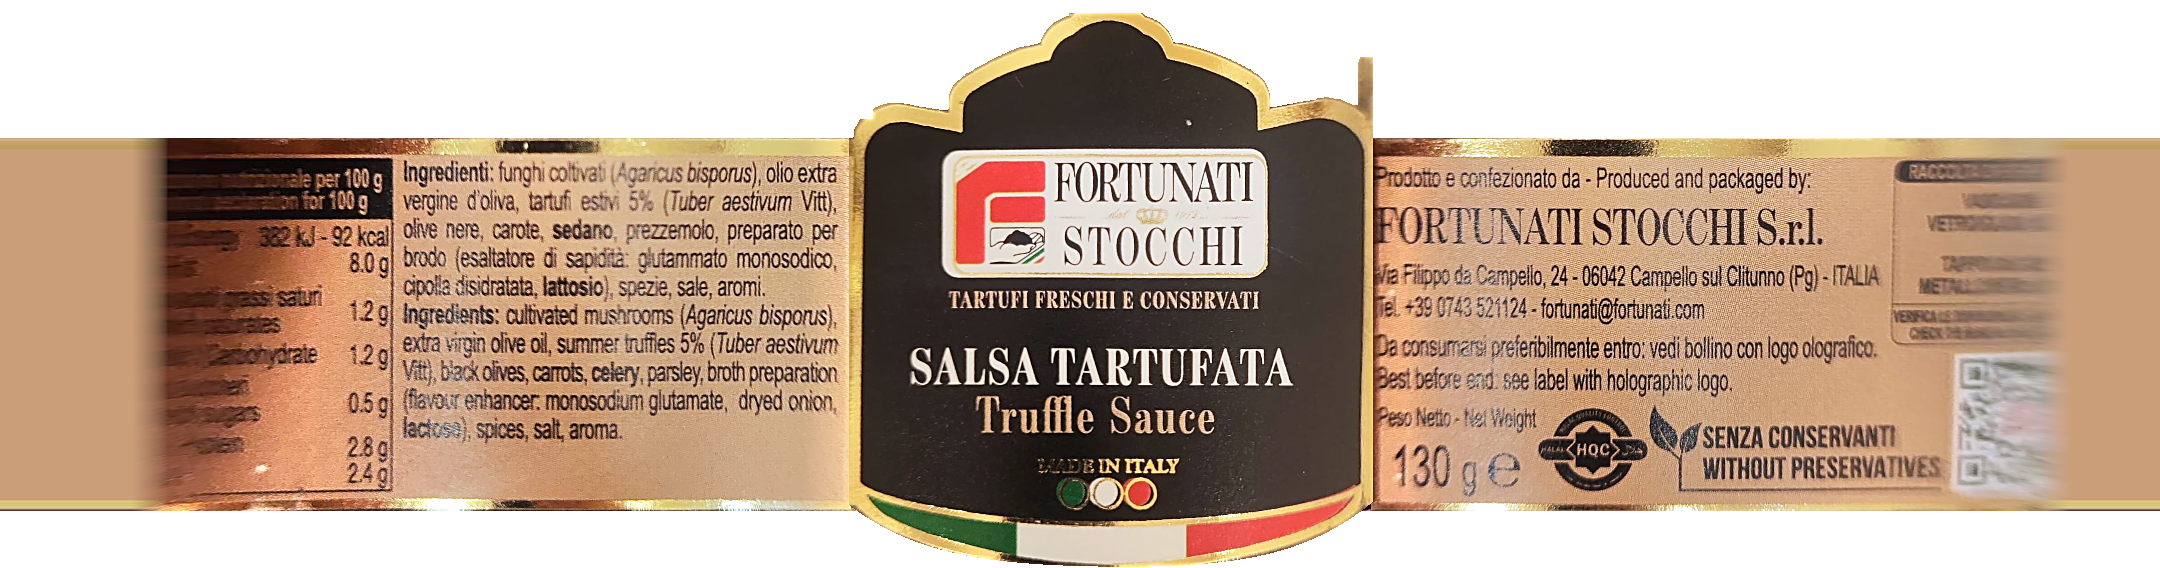
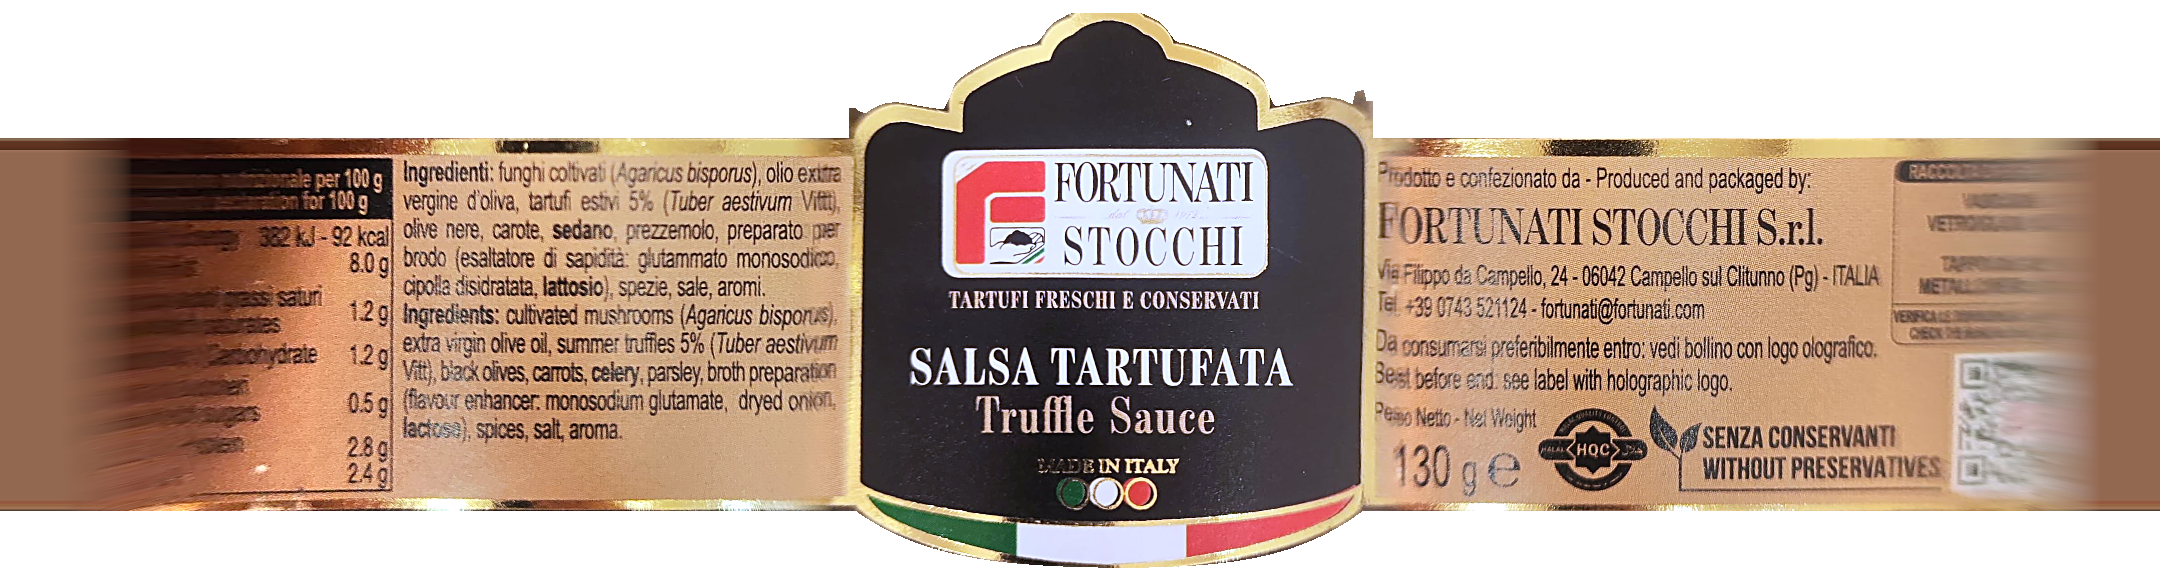
Etichetta rifatta: niente scalini nel bordo dorato né strisce nere ai lati
Il montaggio delle tre foto era sbagliato: dentro l'angolo dell'etichetta nera nessuna foto
aveva peso, e il colore lì veniva nero. Si vedevano due strisce scure ai lati dell'etichetta e
un salto di colore dove finiva la sagoma ritagliata. Adesso ogni foto prende la fetta che
guarda in faccia — davanti la 1 con l'etichetta nera intera e le sue strisce dorate, a sinistra
la 3, a destra la 2 — e le sfumature fra una foto e l'altra cadono fuori dall'etichetta nera.

La sagoma dell'arco serve ormai solo per il trasparente, e non esce più a scalini: i punti che
scappano (i lampi d'oro sul vetro dietro) si buttano via e sui 2° estremi, dove il bordo si vede
di taglio, si tiene quello della spalla vicina. Prima ne usciva uno spuntone sul lato destro.

La toppa dietro, dove nessuna foto arriva, è più stretta e messa alla stessa luce dei bordi che
le stanno accanto: non è più una macchia chiara. Resta senza scritte: per riempirla davvero
serve una foto del retro del barattolo.

La superficie della salsa non sembra più legno: la grana adesso ha i pixel quadrati anche lì.

diff --git a/barattolo/barattolo-3d.js b/barattolo/barattolo-3d.js
@@ -106,10 +106,13 @@ export function monta(el, m) {
     envMapIntensity: 0.15
   });
   barattolo.add(new THREE.Mesh(salsa, pelle));
-  /* la superficie della salsa, appena incavata: si vede dalla spalla quando si guarda dall'alto */
+  /* la superficie della salsa, appena incavata: si vede dalla spalla quando si guarda dall'alto. Sta
+     all'ombra del tappo, quindi più scura di quella di lato. */
   const [livello, rSalsa] = m.dentro[0];
   const pelleCima = carica("salsa.jpg", true);
-  pelleCima.repeat.set(1.6, 1.6);
+  pelleCima.repeat.set(2 * rSalsa / m.salsa.largo, 2 * rSalsa / m.salsa.alto); /* grana quadrata, se no sembra legno */
+  pelleCima.center.set(0.5, 0.5);
+  pelleCima.rotation = 0.7;
   const faccia = new THREE.CircleGeometry(rSalsa, 96);
   const fp = faccia.attributes.position;
   for (let i = 0; i < fp.count; i++) {
@@ -119,7 +122,7 @@ export function monta(el, m) {
   faccia.computeVertexNormals();
   const cima = new THREE.Mesh(
     faccia,
-    new THREE.MeshStandardMaterial({ map: pelleCima, bumpMap: pelleCima, bumpScale: 0.015, roughness: 0.4, envMap, envMapIntensity: 0.25 })
+    new THREE.MeshStandardMaterial({ map: pelleCima, bumpMap: pelleCima, bumpScale: 0.01, color: 0x8c8c8c, roughness: 0.5, envMap, envMapIntensity: 0.2 })
   );
   cima.rotation.x = -Math.PI / 2;
   cima.position.y = livello;

diff --git a/barattolo/index.html b/barattolo/index.html
@@ -31,7 +31,12 @@
 <p class="nome">Salsa tartufata 130 g</p>
 <script type="module">
   import { monta } from "./barattolo-3d.js";
-  monta(document.querySelector("[data-3d]"), await (await fetch("modello.json")).json());
+  const c = monta(document.querySelector("[data-3d]"), await (await fetch("modello.json")).json());
+  /* per le prove: __gira(gradi) mette il barattolo a un angolo preciso, senza trascinare */
+  window.__gira = (gradi, alto = 1.33) => {
+    c.object.position.setFromSphericalCoords(c.object.position.length(), alto, gradi * Math.PI / 180);
+    c.update();
+  };
 </script>
 </body>
 </html>

diff --git a/barattolo/barattolo.py b/barattolo/barattolo.py
@@ -62,35 +62,48 @@ def srotola(n, teta, h):
 
 
 # --- etichette: un foglio unico tutto intorno, da sopra l'etichetta nera a sotto ----------------------------------------
+# Ogni foto prende la fetta che guarda in faccia: davanti la 1 (etichetta nera intera, col suo bordo d'oro e le due
+# strisce dorate ai lati), a sinistra la 3, a destra la 2. Le sfumature fra una foto e l'altra cadono fuori
+# dall'etichetta nera, così nessuna giunzione la taglia. Dietro restano una ventina di gradi che non ha visto
+# nessuna foto: lì l'etichetta è oro liscio, riga per riga (i fili d'oro in cima e in fondo restano).
 HE = righe(0.40, -1.25)
 oro = (HE <= 0) & (HE >= -H)
+grezza1, _ = srotola(1, TETA, HE)  # la foto di fronte com'è: i bordi dell'etichetta nera si cercano su questa
 dor = {}
-for n in (3, 2):
+for n in (3, 2, 1):
     g, vis = srotola(n, TETA, HE)
-    # luce dello scatto angolo per angolo, sul fondo dell'etichetta (75° percentile: le scritte, scure, restano sotto)
-    ok = vis[oro].all(0)
+    scoperto = vis[oro].all(0)
+    if n == 1:  # davanti l'etichetta dorata si vede solo ai due lati di quella nera
+        scoperto &= (TETA < NERA[0] - 2) | (TETA > NERA[1] + 2)
+    # luce dello scatto angolo per angolo, sul fondo dell'etichetta (75° percentile: le scritte, scure, restano sotto);
+    # dove l'etichetta dorata non si vede, la luce si tira dalle colonne vicine
     lum = np.percentile(g[oro].mean(2), 75, axis=0)
-    lum = np.interp(np.arange(len(TETA)), np.nonzero(ok)[0], lum[ok])
+    lum = np.interp(np.arange(len(TETA)), np.nonzero(scoperto)[0], lum[scoperto])
     lum = np.convolve(np.pad(lum, 60, mode="edge"), np.ones(121) / 121, mode="valid")
-    g /= np.clip(lum / np.median(lum[ok & (np.abs(TETA - PHI[n]) < 20)]), 0.6, 1.6)[None, :, None]
-    # lo stesso colore di fondo in tutte e due: quello della foto 3
-    fondo = np.median(g[oro][:, ok & (np.abs(TETA - PHI[n]) < 40)], (0, 1))
-    rif = fondo if n == 3 else rif
+    vicino = scoperto & (np.abs(TETA - PHI[n]) < (60 if n == 1 else 30))
+    g /= np.clip(lum / np.median(lum[vicino]), 0.6, 1.6)[None, :, None]
+    fondo = np.median(g[oro][:, vicino], (0, 1))  # lo stesso colore di fondo in tutte e tre: quello della foto 3
+    if n == 3:
+        rif = fondo
     dor[n] = g / fondo * rif
-# a sinistra la foto 3 fino al lato dell'etichetta nera, a destra la 2; dietro nessuna vede bene: fondo liscio,
-# riga per riga (così restano i fili d'oro in cima e in fondo)
-p3 = liscio(TETA, -158, -152) * (1 - liscio(TETA, NERA[0] + 1, NERA[0] + 3))  # oltre -155° la vede di sbieco
-p2 = liscio(TETA, NERA[1] - 3, NERA[1] - 1) * (1 - liscio(TETA, 160, 165))
-fondo = np.percentile(dor[3][:, (TETA > -130) & (TETA < -60)], 55, axis=1)
+p1 = liscio(TETA, -48, -41) * (1 - liscio(TETA, 50, 57))
+p3 = liscio(TETA, -170, -158) * (1 - liscio(TETA, -48, -41))  # oltre -160° la vede troppo di sbieco
+p2 = liscio(TETA, 50, 57) * (1 - liscio(TETA, 158, 170))
+dietro = np.clip(1 - p1 - p2 - p3, 0, 1)
+riempi = np.percentile(dor[3][:, (TETA > -150) & (TETA < -60)], 55, axis=1)
 fili = (HE > -0.035) | (HE < -H + 0.035)
-fondo[~fili] = np.median(fondo[oro & ~fili], 0)
-dietro = 1 - p3 - p2 - ((TETA > NERA[0]) & (TETA < NERA[1]))
-etichette = dor[3] * p3[None, :, None] + dor[2] * p2[None, :, None] + fondo[:, None, :] * dietro[None, :, None]
+riempi[~fili] = np.median(riempi[oro & ~fili], 0)
+# la toppa va messa alla stessa luce dei due bordi che le stanno accanto, se no si vede una macchia chiara
+bordi = np.concatenate([dor[2][oro][:, (TETA > 138) & (TETA < 152)].reshape(-1, 3),
+                        dor[3][oro][:, (TETA > -152) & (TETA < -138)].reshape(-1, 3)])
+riempi *= np.median(bordi, 0) / np.median(riempi[oro], 0)
+etichette = (dor[1] * p1[None, :, None] + dor[3] * p3[None, :, None] + dor[2] * p2[None, :, None]
+             + riempi[:, None, :] * dietro[None, :, None])
 
-# etichetta nera dalla foto di fronte; la sua sagoma: per ogni colonna il primo bordo d'oro dall'alto e dal basso
-g1, _ = srotola(1, TETA, HE)
+# la sagoma dell'etichetta nera: serve solo per il trasparente sopra e sotto la fascia dorata (il colore lì viene
+# comunque dalla foto 1). Per ogni colonna il primo bordo d'oro dall'alto e dall'basso.
 in_nera = (TETA >= NERA[0] - 0.3) & (TETA <= NERA[1] + 0.3)
-r_, g_, b_ = [SRGB(g1)[..., k].astype(float) for k in range(3)]
+r_, g_, b_ = [SRGB(grezza1)[..., k].astype(float) for k in range(3)]
 dorato = (r_ + g_ - 2 * b_ > 90) & (r_ > 150)
 alto = np.full(len(TETA), np.nan)
 basso = np.full(len(TETA), np.nan)
@@ -104,13 +117,19 @@ for j in np.nonzero(in_nera)[0]:
     if len(giu):
         basso[j] = giu[-1]
 cj = np.nonzero(in_nera)[0]
-# in cima: mediana su 9 colonne, e dove non c'è il filo le colonne vicine
+# in cima l'arco: dove non c'è il filo si tira dalle colonne vicine, poi si butta via chi scappa (i lampi d'oro sul
+# vetro dietro) e si liscia. Senza questo il bordo dorato esce a scalini.
+mediana = lambda v, k: np.array([np.median(v[max(0, i - k):i + k + 1]) for i in range(len(v))])
 ok = ~np.isnan(alto[cj])
-alto[cj] = np.interp(cj, cj[ok], alto[cj][ok])
-alto[cj] = [np.median(alto[cj][max(0, k - 4):k + 5]) for k in range(len(cj))]
-# sui 4° ai lati il bordo è quello delle spalle, mai più in alto (lì il vetro ha dei lampi d'oro)
-for lato in (cj[:4 * PX], cj[-4 * PX:]):
-    alto[lato] = np.maximum(alto[lato], np.median(alto[lato]))
+arco = mediana(np.interp(cj, cj[ok], alto[cj][ok]), 4)
+for _ in range(3):
+    largo = mediana(arco, 14)
+    scappa = np.abs(arco - largo) > 4
+    arco[scappa] = largo[scappa]
+bordo = 2 * PX  # sui 2° estremi il bordo si vede di taglio e il filo si perde: si tiene quello della spalla vicina
+arco[:bordo] = np.median(arco[bordo:3 * bordo])
+arco[-bordo:] = np.median(arco[-3 * bordo:-bordo])
+alto[cj] = np.convolve(np.pad(arco, 5, mode="edge"), np.ones(11) / 11, mode="valid")
 # in fondo la fascia tricolore è un arco: curva liscia (4° grado) sui punti buoni, i fuori posto scartati
 x, y = TETA[cj], basso[cj]
 buoni = ~np.isnan(y)
@@ -119,8 +138,7 @@ for _ in range(3):
     buoni &= np.abs(np.nan_to_num(y) - np.polyval(c, x)) < 6
 basso[cj] = np.polyval(c, x)
 riga = np.arange(len(HE))[:, None]
-nera = in_nera[None, :] & (riga >= alto[None, :] - 1) & (riga <= basso[None, :] + 1)
-etichette = np.where(nera[..., None], g1, etichette)
+nera = in_nera[None, :] & (riga >= alto[None, :] - 2) & (riga <= basso[None, :] + 2)
 alfa = ((oro[:, None] | nera) * 255).astype(np.uint8)
 nitide = Image.fromarray(SRGB(etichette * CALDO)).filter(ImageFilter.UnsharpMask(2, 60, 2))  # le foto vere sono morbide
 Image.fromarray(np.dstack([np.asarray(nitide), alfa])).save("etichette.png", optimize=True)
@@ -179,7 +197,7 @@ Image.fromarray(SRGB(np.repeat(oroT[:, None, :], 8, 1))).save("tappo.png")
 json.dump({
     "etichetta": [0.40, -1.25], "tappo": TAPPO,
     # la salsa: un pezzo largo un quarto di giro e alto SALSA_H, che si ripete a specchio
-    "salsa": {"giri": 2, "alto": round(SALSA_H[0] - SALSA_H[1], 3)},
+    "salsa": {"giri": 2, "alto": round(SALSA_H[0] - SALSA_H[1], 3), "largo": round(tela.shape[1] / R, 3)},
     "vetro": VETRO, "dentro": DENTRO,
 }, open("modello.json", "w"), separators=(",", ":"))
 print("etichette", etichette.shape, "salsa", salsa.size, "tappo", oroT.shape)
